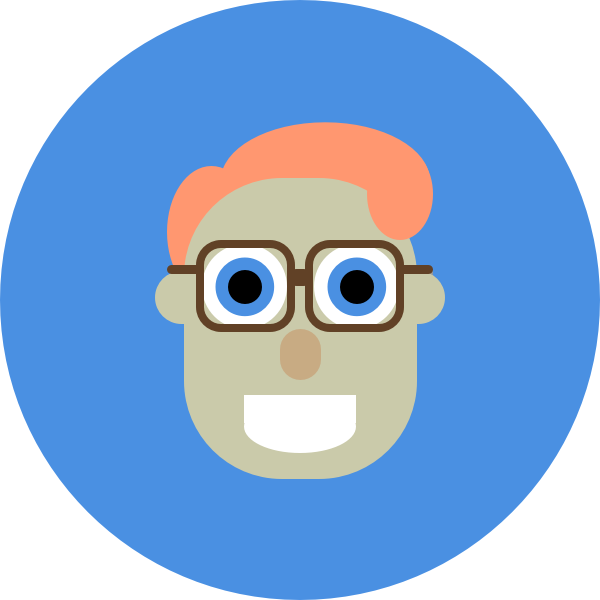
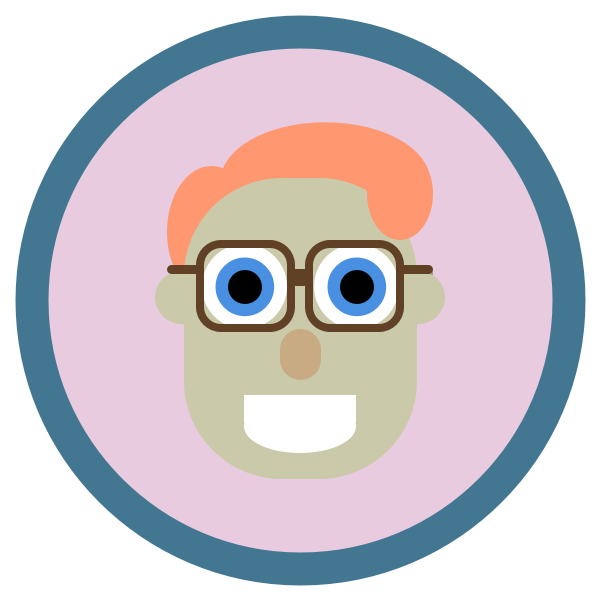
new me img

diff --git a/stylesheets/space.css b/stylesheets/space.css
@@ -89,10 +89,8 @@
 
   .me-img {
    margin: 20px auto;
-   border-radius: 50%;
-   width: 80%;
-   border: 6px #373a3c solid;
-   border-spacing: 100px;
+   width: 90%;
+
   }
 
 
@@ -130,7 +128,6 @@
     text-align: center;
     background-color: rgba(0,0,0,.7);
     border-radius: 3%;
-
     margin: 0 auto;
   }
 
